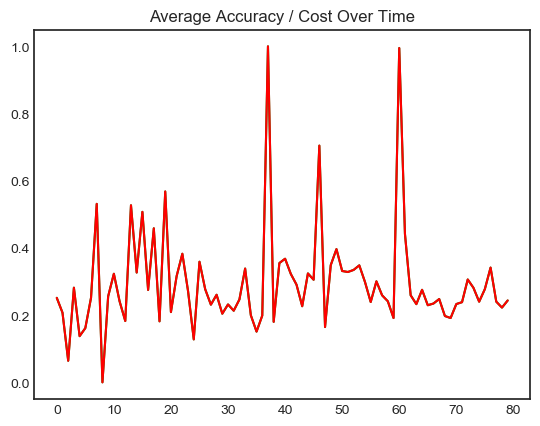
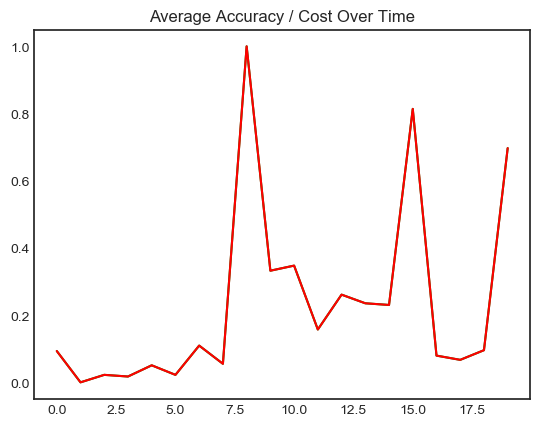
s

diff --git a/NeuralNetwork/LSTM-GAN/c_gan.py b/NeuralNetwork/LSTM-GAN/c_gan.py
@@ -290,7 +290,7 @@ d4 = CNN_3D(3,3,3,6,1,act=tf_sigmoid)
 
 # hyper
 num_epoch = 20
-learning_rate = 0.0002
+learning_rate = 0.0009
 batch_size = 2
 print_size = 1
 divide_size = 3
@@ -321,7 +321,7 @@ g_weights = g0.getw() + g1.getw() + g2.getw() + g3.getw() + g4.getw()
 
 # ----- losses
 D_loss = -tf.reduce_mean(tf.log(true_d_f+1e-10) + tf.log(1.0 - fake_d_f+1e-10))
-G_loss = -tf.reduce_mean(tf.log(fake_d_f+1e-10)) + tf.reduce_mean(tf.square(layer4_g-y))
+G_loss = -tf.reduce_mean(tf.log(fake_d_f+1e-10)) 
 
 # --- training
 auto_d_train = tf.train.AdamOptimizer(learning_rate=learning_rate).minimize(D_loss,var_list= d_weights)
